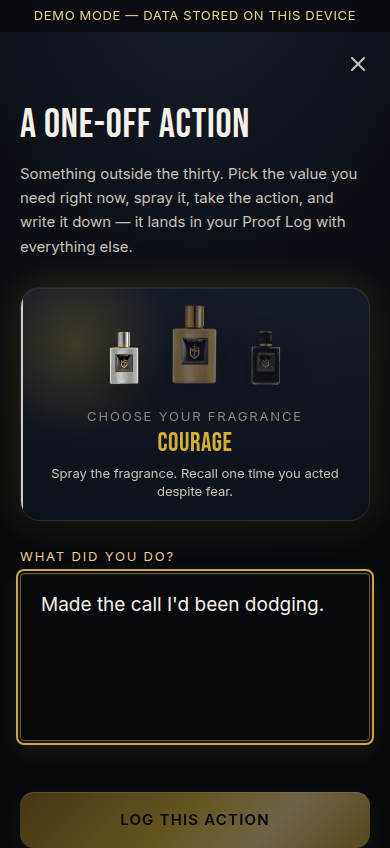
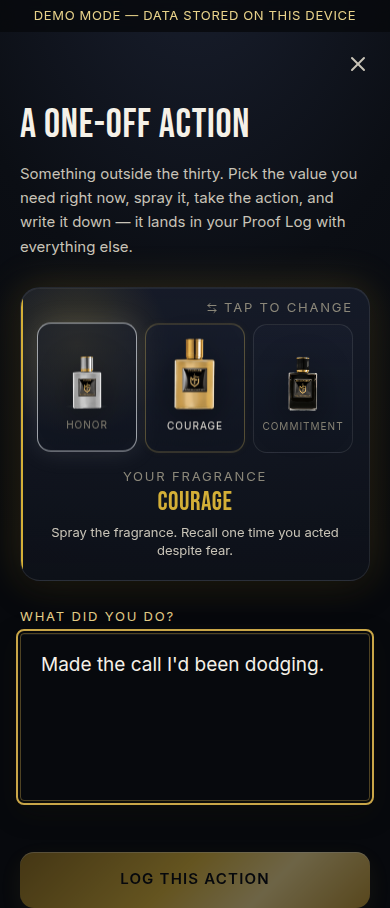
Make the fragrance shelf read as a choice
Three dim bottles on a card look like decoration, not buttons — the option
to change was there and invisible.

Each bottle now sits on its own tile, the same tiles as the three on the
Missions list: the chosen one lit in its colour, the other two outlined and
waiting. Every bottle is labelled, so a man who doesn't yet know the set by
sight can see what he would be switching to. A ⇄ TAP TO CHANGE caption sits
at the top of the card, and the eyebrow under the row names the state —
WEAR THIS FOR MISSION, or YOUR CHOICE · THE DOT MARKS THE RECOMMENDATION.

Arrows would have implied paging through something; these are three fixed
options, so the tiles do the work and the caption says it plainly.

Claude-Session: https://claude.ai/code/session_01WVgj5E7JPb9xgPaaNWkVw6

diff --git a/src/components/FragranceCue.tsx b/src/components/FragranceCue.tsx
@@ -1,5 +1,6 @@
 "use client";
 
+import { ArrowLeftRight } from "lucide-react";
 import BottleVisual from "@/components/BottleVisual";
 import { TRIGGERS, TRIGGER_ACCENTS, TRIGGER_ORDER } from "@/content/triggers";
 import type { Trigger } from "@/lib/data/types";
@@ -8,11 +9,11 @@ import { cn } from "@/lib/utils";
 /**
  * The fragrance for this Mission — the shelf, not a dropdown.
  *
- * All three bottles are on screen. The one the Mission calls for is picked
- * up: full size, lit, named, carrying the spray instruction. The other two
- * stand back, dimmed, one tap away. So the recommendation is obvious and
- * changing it costs nothing — no picker to open, no link to find, and
- * nothing to read before he understands it.
+ * All three bottles sit on their own tiles. The one the Mission calls for is
+ * picked up: full size, lit, named, carrying the spray instruction. The other
+ * two stand back on outlined tiles, one tap away, each labelled so a new man
+ * knows what he would be switching to. So the recommendation is obvious, and
+ * changing it costs one tap with nothing to open or find.
  *
  * It also carries the T of S.T.A.R. When the ritual screen was folded away,
  * "spray it and recall a moment you lived this" lost its home; it belongs on
@@ -37,7 +38,7 @@ export default function FragranceCue({
   return (
     <div
       className={cn(
-        "glass relative overflow-hidden rounded-[20px] px-4 pt-4 pb-5",
+        "glass relative overflow-hidden rounded-[20px] px-4 pt-3 pb-5",
         className,
       )}
       style={{
@@ -47,7 +48,7 @@ export default function FragranceCue({
       {/* The chosen value's colour down the edge and washing the corner. */}
       <span
         aria-hidden
-        className="absolute top-0 bottom-0 left-0 w-[2px] transition-colors duration-300"
+        className="absolute top-0 bottom-0 left-0 w-[2px]"
         style={{
           background: tone.color,
           boxShadow: tone.edge ? `1px 0 0 ${tone.edge}` : undefined,
@@ -61,14 +62,20 @@ export default function FragranceCue({
         }}
       />
 
+      {/* Says out loud what the tiles imply: this one is yours to change. */}
+      <p className="eyebrow relative flex items-center justify-end gap-1.5 text-ink-2">
+        <ArrowLeftRight aria-hidden size={12} className="shrink-0" />
+        TAP TO CHANGE
+      </p>
+
       <div
         role="radiogroup"
         aria-label="Which fragrance are you wearing?"
-        className="relative flex items-end justify-center gap-6"
+        className="relative mt-2 grid grid-cols-3 gap-2"
       >
         {TRIGGER_ORDER.map((trigger) => {
           const chosen = trigger === value;
-          const glow = TRIGGER_ACCENTS[trigger].glow;
+          const accent = TRIGGER_ACCENTS[trigger];
           return (
             <button
               key={trigger}
@@ -76,30 +83,39 @@ export default function FragranceCue({
               role="radio"
               aria-checked={chosen}
               aria-label={TRIGGERS[trigger].name.toLowerCase()}
+              data-open={chosen}
               onClick={() => onChange(trigger)}
-              className={cn(
-                "relative flex flex-col items-center transition-all duration-300",
-                chosen ? "opacity-100" : "opacity-45 hover:opacity-80",
-              )}
+              className="bottle-tile flex flex-col items-center rounded-[14px] px-1 pt-3 pb-2"
+              style={
+                {
+                  "--cue-color": accent.color,
+                  "--cue-glow": accent.glow,
+                } as React.CSSProperties
+              }
             >
-              <span className="relative flex items-end justify-center">
-                <BottleVisual trigger={trigger} size={chosen ? 56 : 38} />
-                {/* The pool of light the chosen bottle stands in. */}
+              <span className="relative flex h-[74px] items-end justify-center">
+                <BottleVisual trigger={trigger} size={chosen ? 50 : 38} />
                 <span
                   aria-hidden
-                  className="absolute bottom-0 left-1/2 h-[7px] -translate-x-1/2 rounded-full transition-opacity duration-300"
+                  className="bottle-pool absolute bottom-0 left-1/2 h-[6px] w-[46px] -translate-x-1/2 rounded-full"
                   style={{
-                    width: chosen ? 54 : 36,
-                    opacity: chosen ? 1 : 0,
-                    background: `radial-gradient(ellipse, ${glow} 0%, transparent 72%)`,
+                    background: `radial-gradient(ellipse, ${accent.glow} 0%, transparent 72%)`,
                   }}
                 />
+              </span>
+              <span
+                className={cn(
+                  "mt-2 block text-[10px] tracking-[0.1em] uppercase",
+                  chosen ? "text-ink-0" : "text-ink-2",
+                )}
+              >
+                {TRIGGERS[trigger].name}
               </span>
               {/* Which one the Mission asks for, whatever he picks. */}
               <span
                 aria-hidden
                 className={cn(
-                  "mt-2 block h-1 w-1 rounded-full",
+                  "mt-1.5 block h-1 w-1 rounded-full",
                   trigger === recommended
                     ? "bg-[var(--gold-500)]"
                     : "bg-transparent",
@@ -110,13 +126,13 @@ export default function FragranceCue({
         })}
       </div>
 
-      <div className="relative mt-3 text-center">
+      <div className="relative mt-4 text-center">
         <p className="eyebrow text-ink-2">
           {recommended === undefined
-            ? "CHOOSE YOUR FRAGRANCE"
+            ? "YOUR FRAGRANCE"
             : onRecommendation
               ? "WEAR THIS FOR MISSION"
-              : "YOUR CHOICE · TAP TO SWITCH BACK"}
+              : "YOUR CHOICE · THE DOT MARKS THE RECOMMENDATION"}
         </p>
         {/* Keyed so the line remounts on a switch: iOS Safari splices text
             that changes in place inside a backdrop-filtered card. */}

diff --git a/docs/HANDOFF.md b/docs/HANDOFF.md
@@ -19,7 +19,7 @@ states. The Vivid Vision is archived; its replacement is the compiled, printable
 
 - Owner: Antonio Centeno (product decisions). Team contact: Yuri.
 - Repo: https://github.com/aiexecutionaccelerator/mfapp (branch `main`)
-- Version: 2.3.0 (one input, one click)
+- Version: 2.3.1 (one input, one click)
 
 ## Architecture facts that matter
 
